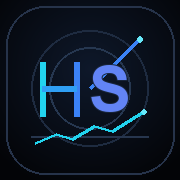
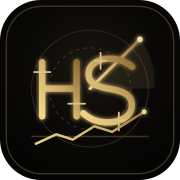
HS ETF Radar v6.2 - Swing Radar V1.2.1 Frozen

diff --git a/swing-strategy-core.js b/swing-strategy-core.js
@@ -273,8 +273,8 @@
     if (!gates.setupGate.passed) return {number: 0, key: "wait", label: "等待強勢回檔條件", targetPosition: 0};
     const breakout = indicators.previous20DayHighestClose !== null && indicators.price > indicators.previous20DayHighestClose &&
       indicators.rows.at(-1)?.volume !== null && indicators.volumeMa20 !== null && indicators.rows.at(-1).volume >= indicators.volumeMa20 * 1.2 && (indicators.core.ma20Slope ?? -1) > 0;
-    if (breakout && score >= 80) return {number: 4, key: "stage4", label: "Stage 4 突破確認", targetPosition: 100};
-    if (score >= 90) return {number: 3, key: "stage3", label: "Stage 3 趨勢確認", targetPosition: 80};
+    if (breakout && score >= 80) return {number: 4, key: "stage4", label: "Stage 4 趨勢重新發動｜突破確認", targetPosition: 100};
+    if (score >= 90) return {number: 3, key: "stage3", label: "Stage 3 趨勢重新發動", targetPosition: 80};
     if (score >= 80) return {number: 2, key: "stage2", label: "Stage 2 轉強加碼", targetPosition: 50};
     if (score >= 70) return {number: 1, key: "stage1", label: "Stage 1 第一批試單", targetPosition: 20};
     return {number: 0, key: score >= 55 ? "near" : "wait", label: score >= 55 ? "接近買點" : "等待", targetPosition: 0};
@@ -286,9 +286,12 @@
     const price = indicators.price;
     const below200 = price !== null && indicators.core.ma200 !== null && price < indicators.core.ma200;
     const falling200 = (indicators.core.ma200Slope ?? 0) < 0;
+    const structureRisk = price !== null && indicators.core.ma200 !== null && indicators.core.ma60 !== null
+      ? (below200 ? (falling200 ? 100 : 80) : price < indicators.core.ma60 ? 65 : 20)
+      : null;
     const factors = [
       {key: "relativeStrength", weight: 25, value: rs.return20 === null ? null : clamp(50 - rs.return20 * 8)},
-      {key: "structure", weight: 25, value: below200 ? (falling200 ? 100 : 80) : price < indicators.core.ma60 ? 65 : 20},
+      {key: "structure", weight: 25, value: structureRisk},
       {key: "weeklyReversal", weight: 20, value: weekly ? clamp((weekly.j > 80 ? 35 : 5) + (weekly.direction === "down" ? 55 : 0) + (weekly.k < weekly.d ? 10 : 0)) : null},
       {key: "overextension", weight: 15, value: price !== null && indicators.core.ma20 !== null ? clamp((price / indicators.core.ma20 - 1) * 500) : null},
       {key: "volume", weight: 10, value: volumeFactor(indicators) === null ? null : clamp(100 - volumeFactor(indicators))},
@@ -340,10 +343,10 @@
   function stage006201(score, input, gates) {
     if (score === null) return {number:0,key:"insufficient",label:"資料不足",targetPosition:0};
     if (gates.hardFail.triggered) return {number:0,key:"wait",label:"長期趨勢未通過",targetPosition:0};
-    if (!gates.setupGate.passed || score < 80) return {number:0,key:score >= 70?"wait_confirm":"wait",label:score >= 70?"70–79 分：等待確認":"等待",targetPosition:0};
-    if (score >= 90 && input.breakoutConfirmed) return {number:2,key:"quality",label:"高品質反轉確認",targetPosition:SWING_006201_POSITION_CONFIG.breakout};
+    if (!gates.setupGate.passed || score < 80) return {number:0,key:score >= 70?"wait_confirm":"wait",label:score >= 70?"Setup成立／等待止跌":"等待",targetPosition:0};
+    if (score >= 90 && input.breakoutConfirmed) return {number:2,key:"quality",label:"高品質強買點",targetPosition:SWING_006201_POSITION_CONFIG.breakout};
     if (score >= 90) return {number:1,key:"quality_wait",label:"高分但等待突破",targetPosition:SWING_006201_POSITION_CONFIG.highQuality};
-    return {number:1,key:"first",label:"80–89 分：第一批試單",targetPosition:SWING_006201_POSITION_CONFIG.first};
+    return {number:1,key:"first",label:"第一買點",targetPosition:SWING_006201_POSITION_CONFIG.first};
   }
 
   function consecutiveBelowMa(rows, period, maximumDays) {
@@ -360,10 +363,13 @@
     const weekly = indicators.weekly;
     const breakout = input.breakoutConfirmed === true;
     const positionRisk = breakout ? 25 : indicators.price !== null && indicators.core.ma20 !== null ? clamp((indicators.price / indicators.core.ma20 - 1) * 450) : null;
+    const trendRisk = indicators.price !== null && indicators.core.ma200 !== null && indicators.core.ma60 !== null
+      ? (indicators.price < indicators.core.ma200 ? 90 : indicators.price < indicators.core.ma60 ? 65 : 20)
+      : null;
     const weighted = weightedFactors([
       {key:"pricePosition",label:"價格位置",weight:25,value:positionRisk},
       {key:"weeklyReversal",label:"週 KD/J 反轉",weight:25,value:weekly ? clamp((weekly.j > 80 ? 30 : 5)+(weekly.direction === "down" ? 55 : 0)+(weekly.k < weekly.d ? 15 : 0)) : null},
-      {key:"trend",label:"核心趨勢",weight:20,value:indicators.price < indicators.core.ma200 ? 90 : indicators.price < indicators.core.ma60 ? 65 : 20},
+      {key:"trend",label:"核心趨勢",weight:20,value:trendRisk},
       {key:"otc",label:"櫃買市場",weight:15,value:finite(input.otcRisk)},
       {key:"volume",label:"量能",weight:15,value:volumeFactor(indicators) === null ? null : clamp(100-volumeFactor(indicators))}
     ]);
@@ -379,8 +385,10 @@
     const benchmark = buildIndicators(input.benchmarkRows || []);
     const bearGateTriggered = Boolean(benchmark.price !== null && benchmark.core.ma200 !== null && benchmark.price < benchmark.core.ma200 && (benchmark.core.ma60Slope ?? 0) < 0);
     const relativeWeaknessGate = {triggered:rs.return60 !== null && rs.return60 < 0 && rs.recovery20 !== null && rs.recovery20 < 0,cap:69};
-    const stopConfirmationConfirmed = Boolean(weekly?.direction==="up"&&indicators.price>=core.ma20&&(core.ma20Slope??-1)>=0);
-    const stopConfirmation = clamp((weekly?.direction === "up" ? 35 : 0)+(weekly?.k >= weekly?.d ? 20 : 0)+(indicators.price >= core.ma20 ? 20 : 0)+(indicators.lowStopped ? 15 : 0)+((indicators.return10 ?? -99)>0?10:0));
+    const priceAboveMa20 = indicators.price !== null && core.ma20 !== null && indicators.price >= core.ma20;
+    const weeklyKAboveD = finite(weekly?.k) !== null && finite(weekly?.d) !== null && weekly.k >= weekly.d;
+    const stopConfirmationConfirmed = Boolean(weekly?.direction==="up"&&priceAboveMa20&&(core.ma20Slope??-1)>=0);
+    const stopConfirmation = clamp((weekly?.direction === "up" ? 35 : 0)+(weeklyKAboveD ? 20 : 0)+(priceAboveMa20 ? 20 : 0)+(indicators.lowStopped ? 15 : 0)+((indicators.return10 ?? -99)>0?10:0));
     const breakoutConfirmed = Boolean(!bearGateTriggered&&indicators.previous20DayHighestClose !== null && indicators.price > indicators.previous20DayHighestClose && indicators.rows.at(-1)?.volume !== null && indicators.volumeMa20 !== null && indicators.rows.at(-1).volume >= indicators.volumeMa20 * 1.2);
     const weighted = weightedFactors([
       {key:"bottom",label:"底部位置",weight:25,value:pullbackFactor(indicators.drawdown60,-20,-8)},

diff --git a/index.html b/index.html
@@ -10,10 +10,10 @@
 <meta name="application-name" content="HS ETF雷達" />
 <meta name="apple-mobile-web-app-title" content="HS ETF雷達" />
 <meta name="description" content="台股延遲行情、ETF買點、估值、籌碼與個人持股雷達" />
-<link rel="icon" type="image/svg+xml" href="assets/hs-etf-radar-mark.svg?v=3" />
-<link rel="icon" type="image/png" sizes="192x192" href="assets/icon-192-v2.png" />
-<link rel="apple-touch-icon" sizes="180x180" href="assets/apple-touch-icon-v2.png" />
-<link rel="manifest" href="site.webmanifest?v=3" />
+<link rel="icon" type="image/svg+xml" href="assets/hs-etf-radar-mark.svg?v=4" />
+<link rel="icon" type="image/png" sizes="192x192" href="assets/icon-192-v2.png?v=4" />
+<link rel="apple-touch-icon" sizes="180x180" href="assets/apple-touch-icon-v2.png?v=4" />
+<link rel="manifest" href="site.webmanifest?v=4" />
 <style>
 :root{
   --bg:#050609;--panel:#0c0e13;--panel2:#12151c;--panel3:#08090d;
@@ -319,7 +319,7 @@ footer{text-align:center;color:var(--muted);padding:28px 0 8px}
   <section id="home" class="hero">
     <div class="brandBlock">
       <div class="brandLogo" aria-label="HS | ETF股市雷達">
-        <img class="brandMark" src="assets/icon-192-v2.png" alt="" width="64" height="64" />
+        <img class="brandMark" src="assets/icon-192-v2.png?v=4" alt="" width="64" height="64" />
         <div class="brandWordmark"><b>HS | ETF股市雷達</b><span>ETF MARKET SIGNAL SYSTEM</span></div>
       </div>
       <div class="brandLine"><p class="eyebrow">ETF MARKET SIGNAL SYSTEM</p><span class="version">VERSION 6.2</span></div>
@@ -410,7 +410,7 @@ footer{text-align:center;color:var(--muted);padding:28px 0 8px}
 
   <section id="myProfile" class="panel myProfile tabHidden" data-tab-section="more" aria-labelledby="myProfileTitle">
     <div class="myProfileBrand">
-      <img src="assets/hs-etf-radar-mark.svg?v=2" alt="HS ETF股市雷達正式標誌" width="72" height="72">
+      <img src="assets/icon-192-v2.png?v=4" alt="HS ETF股市雷達正式標誌" width="72" height="72">
       <div><p class="eyebrow">MY RADAR</p><h2 id="myProfileTitle">HS｜ETF股市雷達</h2><b>HS Swing Radar V1.2.1 Beta Validated Frozen</b></div>
     </div>
     <div id="myProfileStatus" class="myProfileStatus"><span>價格資料：載入中</span><span>週 KD：載入中</span><span>估值資料：載入中</span></div>
@@ -975,11 +975,15 @@ function kdjSeries(ws){
     const out={...w,k,d,j,previousJ:prevJ};prevJ=j;return out;
   });
 }
-function weekState(date){
-  const d=new Date(date+"T00:00:00+08:00"),today=new Date(),day=d.getDay();
-  const start=x=>{const z=new Date(x),wd=z.getDay()||7;z.setHours(0,0,0,0);z.setDate(z.getDate()-wd+1);return z};
-  const same=start(d).getTime()===start(today).getTime();
-  if(same&&day===5)return{label:"本週正式",short:"正式"};
+function weekState(date,now=new Date()){
+  const dateKey=String(date||"");
+  const parts=Object.fromEntries(new Intl.DateTimeFormat("en-CA",{timeZone:"Asia/Taipei",year:"numeric",month:"2-digit",day:"2-digit",hour:"2-digit",minute:"2-digit",hour12:false}).formatToParts(now).map(part=>[part.type,part.value]));
+  const todayKey=`${parts.year}-${parts.month}-${parts.day}`;
+  const weekStart=key=>{const [year,month,day]=key.split("-").map(Number),value=new Date(Date.UTC(year,month-1,day)),weekday=value.getUTCDay()||7;value.setUTCDate(value.getUTCDate()-weekday+1);return value.toISOString().slice(0,10)};
+  const same=/^\d{4}-\d{2}-\d{2}$/.test(dateKey)&&weekStart(dateKey)===weekStart(todayKey);
+  const dataDate=new Date(`${dateKey}T00:00:00Z`),weekday=dataDate.getUTCDay()||7;
+  const fridayClosed=weekday===5&&(todayKey>dateKey||(todayKey===dateKey&&(Number(parts.hour)*60+Number(parts.minute)>=13*60+30)));
+  if(same&&fridayClosed)return{label:"本週正式",short:"正式"};
   if(same)return{label:"本週暫定",short:"暫定"};
   return{label:"最近完成週",short:"正式"};
 }
@@ -1951,7 +1955,7 @@ function applyHomeDelayedQuotes(detail){
     if(!Number.isFinite(price)||price<=0)continue;
     const quoteDate=String(quote?.date||"");
     if(/^\d{4}-\d{2}-\d{2}$/.test(quoteDate)&&/^\d{4}-\d{2}-\d{2}$/.test(String(x.formalState?.date||""))&&quoteDate<x.formalState.date)continue;
-    const isIntraday=quote.quoteMode==="delayed";
+    const isIntraday=quote.quoteMode==="delayed"&&quoteDate===taipeiToday()&&HSPortfolioCore.isTaipeiMarketOpen(new Date());
     if(isIntraday){
       if(!applyIntradayEstimate(x,quote))continue;
     }else{
@@ -2183,7 +2187,8 @@ function renderTop(){
   if(version&&version!==lastRankSnapshotVersion){localStorage.setItem(LONG_RANK_STORAGE_KEY,JSON.stringify({version,ranks:Object.fromEntries(longs.map((x,index)=>[x.id,index+1]))}));lastRankSnapshotVersion=version}
   const radar=activeRadarItems(),sorted=[...radar].sort((a,b)=>(displayScore(b)??-1)-(displayScore(a)??-1)),low=[...radar].sort((a,b)=>a.j-b.j)[0],best=sorted.find(x=>Number.isFinite(displayScore(x)));
   $("#snapshotGrid").innerHTML=(best||low)?`<div class="snapshot"><span>最高策略分數</span><b>${best?`${best.id}｜${displayScore(best)} 分`:"資料不足"}</b></div><div class="snapshot"><span>最低週 J 值</span><b>${low?`${low.id}｜${fmt(low.j)}`:"—"}</b></div><div class="snapshot"><span>長期加碼區</span><b>${longCount} 檔</b></div><div class="snapshot"><span>波段已確認</span><b>${swingCount} 檔</b></div>`:'<div class="newsEmpty">尚無 ETF 資料。</div>';
-  $("#updatedTop").textContent=`盤中試算｜最後分數 ${formatHomeQuoteTime(liveMarketCacheVersion||all[0]?.date)}｜週 KD 以目前週線試算`;
+  const hasIntraday=longs.some(item=>item.scoreMode==="intraday");
+  $("#updatedTop").textContent=hasIntraday?`盤中試算｜最後分數 ${formatHomeQuoteTime(liveMarketCacheVersion||all[0]?.date)}｜週 KD 以目前週線試算`:`盤後正式｜資料日期 ${esc(all[0]?.date||"—")}｜週 KD 依最近完成週線`;
   renderTodayHighlights(longs,swings);
 }
 function renderCards(){

diff --git a/tests/test_swing_strategy_core.js b/tests/test_swing_strategy_core.js
@@ -1,4 +1,5 @@
 const assert = require("assert");
+const fs = require("fs");
 const core = require("../swing-strategy-core");
 
 let passed = 0;
@@ -44,6 +45,11 @@ test("核心均線與趨勢結構均線分層輸出", () => {
   for (const key of ["ma20","ma60","ma200"]) assert.ok(Number.isFinite(indicators.core[key]));
   for (const key of ["ma43","ma87","ma284"]) assert.ok(Number.isFinite(indicators.trendStructure.values[key]));
   assert.ok(["full","partial","unavailable"].includes(indicators.trendStructure.status));
+  assert.deepStrictEqual(core.CORE_MA_PERIODS,[20,60,200]);
+  assert.deepStrictEqual(core.TREND_STRUCTURE_PERIODS,[43,87,284]);
+  const source=fs.readFileSync(require.resolve("../swing-strategy-core"),"utf8");
+  const executionBlocks=[source.slice(source.indexOf("function stage00733"),source.indexOf("function exitPressure00733")),source.slice(source.indexOf("function engine00733"),source.indexOf("function stage006201")),source.slice(source.indexOf("function stage006201"),source.indexOf("function exitPressure006201")),source.slice(source.indexOf("function engine006201"),source.indexOf("function buildReasons")),source.slice(source.indexOf("function backtestSignals"),source.indexOf("function sanitizeResult"))].join("\n");
+  assert.doesNotMatch(executionBlocks,/ma(?:43|87|284)/i);
 });
 
 test("週 KD 保留當週暫定值、前值與方向", () => {
@@ -88,6 +94,16 @@ test("00733 固定分數案例 75/85 與突破分別對應 Stage 1/2/4", () => {
   breakout.rows[breakout.rows.length-1].volume = 120;
   breakout.core.ma20Slope = .01;
   assert.strictEqual(core.stage00733(85,breakout,passed).number,4);
+  assert.match(core.stage00733(95,indicators,passed).label,/趨勢重新發動/);
+  assert.match(core.stage00733(95,breakout,passed).label,/趨勢重新發動/);
+  assert.doesNotMatch(core.stage00733(95,indicators,passed).label,/極佳低檔/);
+  const noPriceBreak=JSON.parse(JSON.stringify(breakout));noPriceBreak.previous20DayHighestClose=noPriceBreak.price+1;
+  const noVolumeBreak=JSON.parse(JSON.stringify(breakout));noVolumeBreak.rows[noVolumeBreak.rows.length-1].volume=119;
+  const noSlopeBreak=JSON.parse(JSON.stringify(breakout));noSlopeBreak.core.ma20Slope=0;
+  assert.strictEqual(core.stage00733(85,noPriceBreak,passed).number,2);
+  assert.strictEqual(core.stage00733(85,noVolumeBreak,passed).number,2);
+  assert.strictEqual(core.stage00733(85,noSlopeBreak,passed).number,2);
+  assert.strictEqual(core.stage00733(99,indicators,{...passed,setupGate:{passed:false}}).targetPosition,0);
 });
 
 test("00733 浮盈逾 20% 後回吐 10% 觸發 50% 保護且 EXIT 不得加碼", () => {
@@ -99,6 +115,18 @@ test("00733 浮盈逾 20% 後回吐 10% 觸發 50% 保護且 EXIT 不得加碼",
   const addAfterExit = core.transitionTradeState(protectedTrade,{nextState:"EXIT",action:"ADD",stage:4,position:100});
   assert.strictEqual(addAfterExit.position,50);
   assert.strictEqual(addAfterExit.error,"exit_mode_no_add");
+  const emergency = core.engine00733({rows:marketRows({drift:-.001,dipDays:30,dip:-.008,reboundDays:0}),benchmarkRows:benchmark,tradeState:{belowMa200Days:2,entryPrice:indicators.price/.92}});
+  assert.strictEqual(emergency.emergencyExit,true);
+});
+
+test("缺少核心均線不會被當成低出場壓力或止跌確認", () => {
+  const indicators=core.buildIndicators(marketRows(),benchmark);
+  const incomplete=JSON.parse(JSON.stringify(indicators));
+  incomplete.core.ma20=null;incomplete.core.ma60=null;incomplete.core.ma200=null;
+  const exit733=core.exitPressure00733(incomplete,{});
+  const exit6201=core.exitPressure006201(incomplete,{});
+  assert.strictEqual(exit733.factors.find(item=>item.key==="structure").value,null);
+  assert.strictEqual(exit6201.factors.find(item=>item.key==="trend").value,null);
 });
 
 test("006201 70 至 79 分僅等待，80 分以上才可建立第一批", () => {
@@ -113,8 +141,11 @@ test("006201 固定分數案例 75 不買、85 為第一買點", () => {
   const gates={hardFail:{triggered:false},setupGate:{passed:true}};
   const setup={breakoutConfirmed:false};
   assert.strictEqual(core.stage006201(75,setup,gates).number,0);
-  assert.match(core.stage006201(75,setup,gates).label,/等待/);
+  assert.strictEqual(core.stage006201(75,setup,gates).label,"Setup成立／等待止跌");
   assert.strictEqual(core.stage006201(85,setup,gates).number,1);
+  assert.strictEqual(core.stage006201(85,setup,gates).label,"第一買點");
+  assert.strictEqual(core.stage006201(95,{breakoutConfirmed:true},gates).label,"高品質強買點");
+  assert.strictEqual(core.stage006201(85,setup,gates).targetPosition,15);
 });
 
 test("006201 長期趨勢失敗會阻止買進", () => {
@@ -176,9 +207,12 @@ test("回測訊號固定 20 日冷卻且指標只使用訊號當日以前資料"
 });
 
 test("所有引擎輸出不含 NaN、undefined 或 Infinity", () => {
-  const output = core.runStrategy({strategyType:"swing00733",input:{rows:marketRows(),benchmarkRows:benchmark}});
-  const serialized = JSON.stringify(output);
-  assert.doesNotMatch(serialized,/NaN|undefined|Infinity/);
+  for(const strategyType of ["swing00733","swing006201"]){
+    const output=core.runStrategy({strategyType,input:{rows:marketRows(),benchmarkRows:benchmark,otcStrength:50}});
+    const serialized=JSON.stringify(output);
+    assert.doesNotMatch(serialized,/NaN|undefined|Infinity/);
+    for(const value of [output.buyScore,output.exitPressure?.score,output.stage?.targetPosition])if(value!==null)assert.ok(Number.isFinite(value)&&value>=0&&value<=100);
+  }
 });
 
 console.log(`\n${passed} swing strategy core tests passed.`);

diff --git a/persistence-core.js b/persistence-core.js
@@ -54,20 +54,25 @@
   function tradeKey(symbol){return key(`tradeState.${String(symbol||"").toUpperCase()}`)}
   function loadTradeState(symbol){return getJson(tradeKey(symbol),{symbol:String(symbol||"").toUpperCase(),state:"CLOSED",position:0})}
   function saveTradeState(symbol,state){
-    const normalized={...state,symbol:String(symbol||state?.symbol||"").toUpperCase()};
-    if(!/^[0-9A-Z]{2,10}$/.test(normalized.symbol))return false;
-    if(!["ACCUMULATION","HOLDING","EXIT","CLOSED"].includes(normalized.state))return false;
-    const position=finite(normalized.position);
+    const normalizedSymbol=String(symbol||state?.symbol||"").toUpperCase(),tradeState=String(state?.state||"");
+    if(!/^[0-9A-Z]{2,10}$/.test(normalizedSymbol))return false;
+    if(!["ACCUMULATION","HOLDING","EXIT","CLOSED"].includes(tradeState))return false;
+    const position=finite(state?.position);
     if(position===null||position<0||position>100)return false;
+    const nonNegativeInteger=value=>Math.max(0,Math.floor(finite(value)??0));
+    const normalized={tradeId:String(state?.tradeId||""),symbol:normalizedSymbol,state:tradeState,position,
+      entryPrice:finite(state?.entryPrice),peakPrice:finite(state?.peakPrice),entryDate:safeDate(state?.entryDate),exitDate:safeDate(state?.exitDate),
+      highestStage:nonNegativeInteger(state?.highestStage),lastExecutedStage:nonNegativeInteger(state?.lastExecutedStage),lastStageDate:safeDate(state?.lastStageDate),lastEntryPrice:finite(state?.lastEntryPrice),
+      holdingDays:nonNegativeInteger(state?.holdingDays),belowMa200Days:nonNegativeInteger(state?.belowMa200Days),cooldownRemaining:nonNegativeInteger(state?.cooldownRemaining)};
     return setJson(tradeKey(normalized.symbol),normalized);
   }
   function forwardKey(record){return`${record.symbol}|${record.signalDate}|${record.stage}|${record.tradeId}`}
   function validateForwardRecord(raw){
     const symbol=String(raw?.symbol||"").toUpperCase(),signalDate=safeDate(raw?.signalDate),stage=Math.floor(finite(raw?.stage)??0),tradeId=String(raw?.tradeId||"");
     if(!/^[0-9A-Z]{2,10}$/.test(symbol)||!signalDate||signalDate<FORWARD_START_DATE||stage<1||!tradeId||raw?.provisional===true)return null;
-    const score=finite(raw?.buyScore),exit=finite(raw?.exitPressure),price=finite(raw?.signalPrice);
-    if(score===null||score<0||score>100||price===null||price<=0)return null;
-    return{key:`${symbol}|${signalDate}|${stage}|${tradeId}`,symbol,signalDate,stage,tradeId,strategyType:String(raw.strategyType||""),modelVersion:MODEL_VERSION,buyScore:score,rawScore:finite(raw.rawScore),exitPressure:exit,signalPrice:price,position:finite(raw.position),weeklyJ:finite(raw.weeklyJ),relativeStrength:finite(raw.relativeStrength),ma20:finite(raw.ma20),ma60:finite(raw.ma60),ma200:finite(raw.ma200),drawdown60:finite(raw.drawdown60),gate:raw.gate&&typeof raw.gate==="object"?raw.gate:{},marketStatus:String(raw.marketStatus||""),tradeState:String(raw.tradeState||"ACCUMULATION"),confidence:String(raw.confidence||"INSUFFICIENT"),outcomes:raw.outcomes&&typeof raw.outcomes==="object"?raw.outcomes:{},createdAt:String(raw.createdAt||new Date().toISOString())};
+    const score=finite(raw?.buyScore),rawScore=finite(raw?.rawScore),exit=finite(raw?.exitPressure),price=finite(raw?.signalPrice),position=finite(raw?.position);
+    if(score===null||score<0||score>100||rawScore===null||rawScore<0||rawScore>100||exit===null||exit<0||exit>100||price===null||price<=0||position===null||position<0||position>100)return null;
+    return{key:`${symbol}|${signalDate}|${stage}|${tradeId}`,symbol,signalDate,stage,tradeId,strategyType:String(raw.strategyType||""),modelVersion:MODEL_VERSION,buyScore:score,rawScore,exitPressure:exit,signalPrice:price,position,weeklyJ:finite(raw.weeklyJ),relativeStrength:finite(raw.relativeStrength),ma20:finite(raw.ma20),ma60:finite(raw.ma60),ma200:finite(raw.ma200),drawdown60:finite(raw.drawdown60),gate:raw.gate&&typeof raw.gate==="object"?raw.gate:{},marketStatus:String(raw.marketStatus||""),tradeState:String(raw.tradeState||"ACCUMULATION"),confidence:String(raw.confidence||"INSUFFICIENT"),outcomes:raw.outcomes&&typeof raw.outcomes==="object"?raw.outcomes:{},createdAt:String(raw.createdAt||new Date().toISOString())};
   }
   function appendForwardRecord(raw){
     const record=validateForwardRecord(raw);if(!record)return{ok:false,reason:"invalid_or_provisional"};

diff --git a/tests/test_persistence_core.js b/tests/test_persistence_core.js
@@ -1,4 +1,6 @@
 const assert=require("assert");
+const fs=require("fs");
+const vm=require("vm");
 const core=require("../persistence-core");
 
 assert.strictEqual(core.key("watchlist"),"hsRadar.watchlist");
@@ -11,6 +13,11 @@ assert.strictEqual(valid.modelVersion,"HS Swing Radar V1.2.1 Beta Validated Froz
 assert.strictEqual(core.validateForwardRecord({...valid,signalDate:"2026-08-07"}),null);
 assert.strictEqual(core.validateForwardRecord({...valid,provisional:true}),null);
 assert.strictEqual(core.validateForwardRecord({...valid,buyScore:NaN}),null);
+assert.strictEqual(core.validateForwardRecord({...valid,rawScore:Infinity}),null);
+assert.strictEqual(core.validateForwardRecord({...valid,exitPressure:101}),null);
+assert.strictEqual(core.validateForwardRecord({...valid,exitPressure:-1}),null);
+assert.strictEqual(core.validateForwardRecord({...valid,position:101}),null);
+assert.strictEqual(core.validateForwardRecord({...valid,position:-1}),null);
 assert.strictEqual(valid.rawScore,82);
 assert.strictEqual(valid.position,20);
 
@@ -21,5 +28,30 @@ assert.strictEqual(core.validateDecisionLog({date:"2026-08-08",symbol:"00733",sc
 
 assert.deepStrictEqual(core.validateAllocations([{symbol:"00733",targetAllocation:35},{symbol:"006201",targetAllocation:25}]),{ok:true,total:60,items:[{symbol:"00733",targetAllocation:35},{symbol:"006201",targetAllocation:25}]});
 assert.strictEqual(core.validateAllocations([{symbol:"00733",targetAllocation:80},{symbol:"006201",targetAllocation:30}]).ok,false);
+
+const memory=new Map();
+const storage={getItem:key=>memory.has(key)?memory.get(key):null,setItem:(key,value)=>memory.set(key,String(value)),removeItem:key=>memory.delete(key)};
+function bootPersistence(){
+  const context=vm.createContext({localStorage:storage});
+  vm.runInContext(fs.readFileSync(require.resolve("../persistence-core"),"utf8"),context);
+  return context.HSPersistenceCore;
+}
+const firstBoot=bootPersistence();
+assert.strictEqual(firstBoot.saveTradeState("00733",{state:"ACCUMULATION",position:20,entryPrice:NaN,peakPrice:50,entryDate:"2026-08-08",holdingDays:2}),true);
+firstBoot.setJson(firstBoot.keys.holdings,[{code:"0050",shares:1000,averageCost:60}]);
+firstBoot.setJson(firstBoot.key("settings"),{buyPlanMode:"balanced"});
+firstBoot.setJson(firstBoot.key("cache"),{updatedAt:"2026-08-08T01:30:00Z"});
+assert.strictEqual(firstBoot.appendForwardRecord(valid).duplicate,false);
+assert.strictEqual(firstBoot.appendForwardRecord(valid).duplicate,true);
+assert.strictEqual(firstBoot.appendDecisionLog({date:"2026-08-08",symbol:"00733",tradeId:"t1",strategy:"swing00733",score:75,stage:1,positionBefore:0,positionAfter:20,action:"觀察",reason:"正式訊號"}).ok,true);
+const secondBoot=bootPersistence();
+assert.strictEqual(secondBoot.loadTradeState("00733").position,20);
+assert.strictEqual(secondBoot.loadTradeState("00733").entryPrice,null);
+assert.strictEqual(secondBoot.getJson(secondBoot.keys.holdings,[]).length,1);
+assert.strictEqual(secondBoot.getJson(secondBoot.key("settings"),{}).buyPlanMode,"balanced");
+assert.strictEqual(secondBoot.getJson(secondBoot.key("cache"),{}).updatedAt,"2026-08-08T01:30:00Z");
+assert.strictEqual(secondBoot.listForwardRecords().length,1);
+assert.strictEqual(secondBoot.getJson(secondBoot.keys.decisionLog,[]).length,1);
+for(const value of memory.values())assert.doesNotMatch(value,/NaN|Infinity|undefined/);
 
 console.log("PASS namespaced persistence, forward-test validation and allocation guard");

diff --git a/tests/test_swing_ui_integration.js b/tests/test_swing_ui_integration.js
@@ -40,4 +40,13 @@ assert.match(css,/@media\(max-width:760px\)[\s\S]*todayHighlightsGrid\{grid-temp
 const inlineScripts = [...html.matchAll(/<script>([\s\S]*?)<\/script>/g)].map(match => match[1]);
 for (const script of inlineScripts) new Function(script);
 
+const weekStateSource=html.match(/function weekState\(date,now=new Date\(\)\)\{[\s\S]*?\n\}/)?.[0];
+assert.ok(weekStateSource,"weekState helper must exist");
+const weekState=new Function(`${weekStateSource};return weekState;`)();
+assert.strictEqual(weekState("2026-08-03",new Date("2026-08-03T02:30:00Z")).short,"暫定");
+assert.strictEqual(weekState("2026-08-06",new Date("2026-08-06T02:30:00Z")).short,"暫定");
+assert.strictEqual(weekState("2026-08-07",new Date("2026-08-07T02:30:00Z")).short,"暫定");
+assert.strictEqual(weekState("2026-08-07",new Date("2026-08-07T05:30:00Z")).short,"正式");
+assert.strictEqual(weekState("2026-08-07",new Date("2026-08-08T02:30:00Z")).short,"正式");
+
 console.log("PASS dedicated swing UI integration and four-section homepage");

diff --git a/tests/test_dynamic_market.js b/tests/test_dynamic_market.js
@@ -79,6 +79,14 @@ check("Proxy URL 不接受金鑰 query、帳密或非 HTTPS",()=>{
   assert.equal(live.validProxyUrl("https://quotes.example.com/feed"),"https://quotes.example.com/feed");
 });
 
+check("單一 ETF 行情失敗不會拖垮其他 ETF",()=>{
+  const quote={price:60,previous_close:59,quote_time:"2026-08-03T02:30:00Z",data_date:"2026-08-03",data_time:"10:30:00"};
+  const normalized=live.normalizeAuthorizedPayload({source_name:"acceptance",source_url:"https://example.com/quotes",etfs:{"0050":quote,"00733":{...quote,price:0}}});
+  assert.ok(normalized.etfs["0050"]);
+  assert.equal(normalized.etfs["00733"],undefined);
+  assert.equal(Object.keys(normalized.etfs).length,1);
+});
+
 check("首頁市場脈動已移除且保留 ETF 延遲行情重算",()=>{
   assert.doesNotMatch(html,/id="homeMarketOverview"|id="marketOverviewCards"/);
   assert.match(html,/applyIntradayEstimate/);

diff --git a/tests/test_live_updates.js b/tests/test_live_updates.js
@@ -27,6 +27,8 @@ check("首頁 ETF 盤中試算標示完整", () => {
   assert.match(html, /盤中試算｜最後分數/);
   assert.match(html, /週 KD 以目前週線試算/);
   assert.doesNotMatch(production, /即時行情/);
+  assert.match(html, /quoteDate===taipeiToday\(\)&&HSPortfolioCore\.isTaipeiMarketOpen\(new Date\(\)\)/);
+  assert.match(html, /hasIntraday\?`盤中試算[ㅋ-鿿\s\S]*:`盤後正式/);
 });
 
 check("五個盤中時點調度且只有單一排名計時器", () => {
